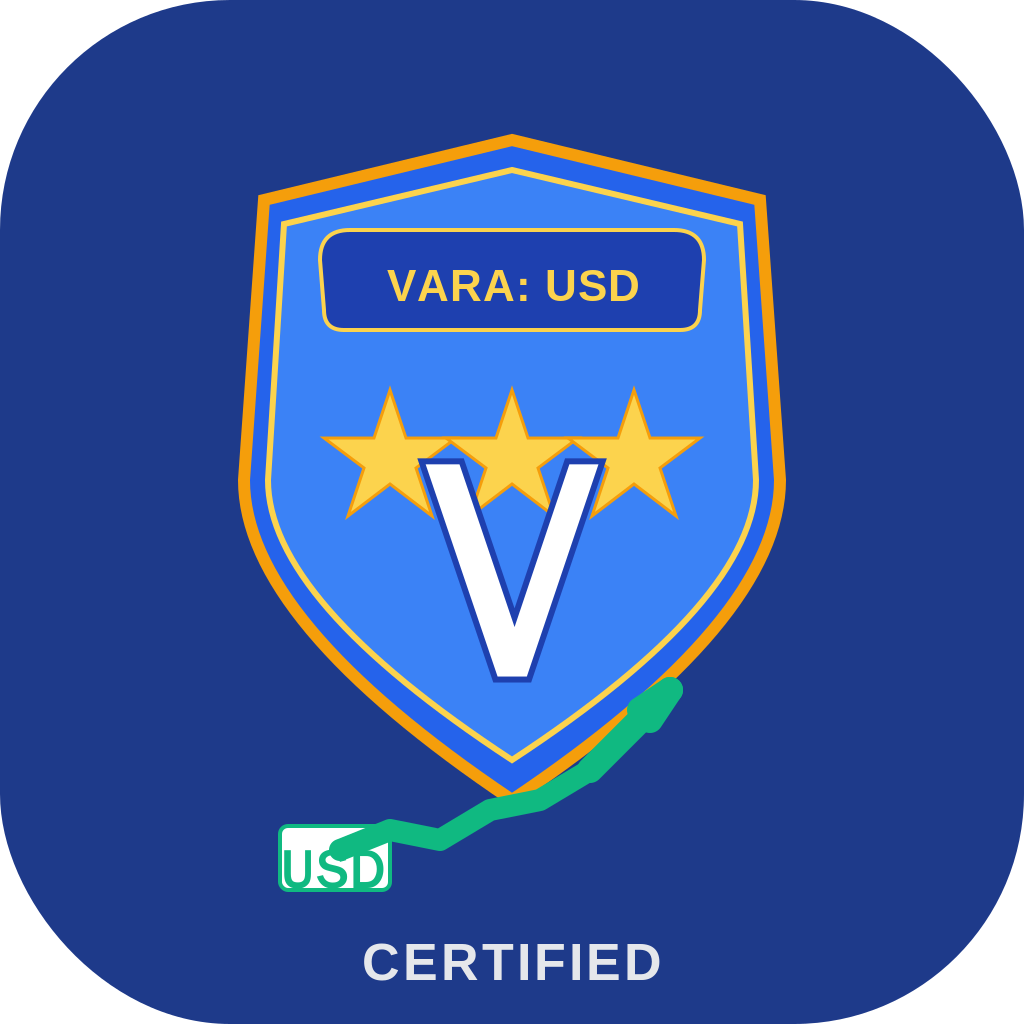
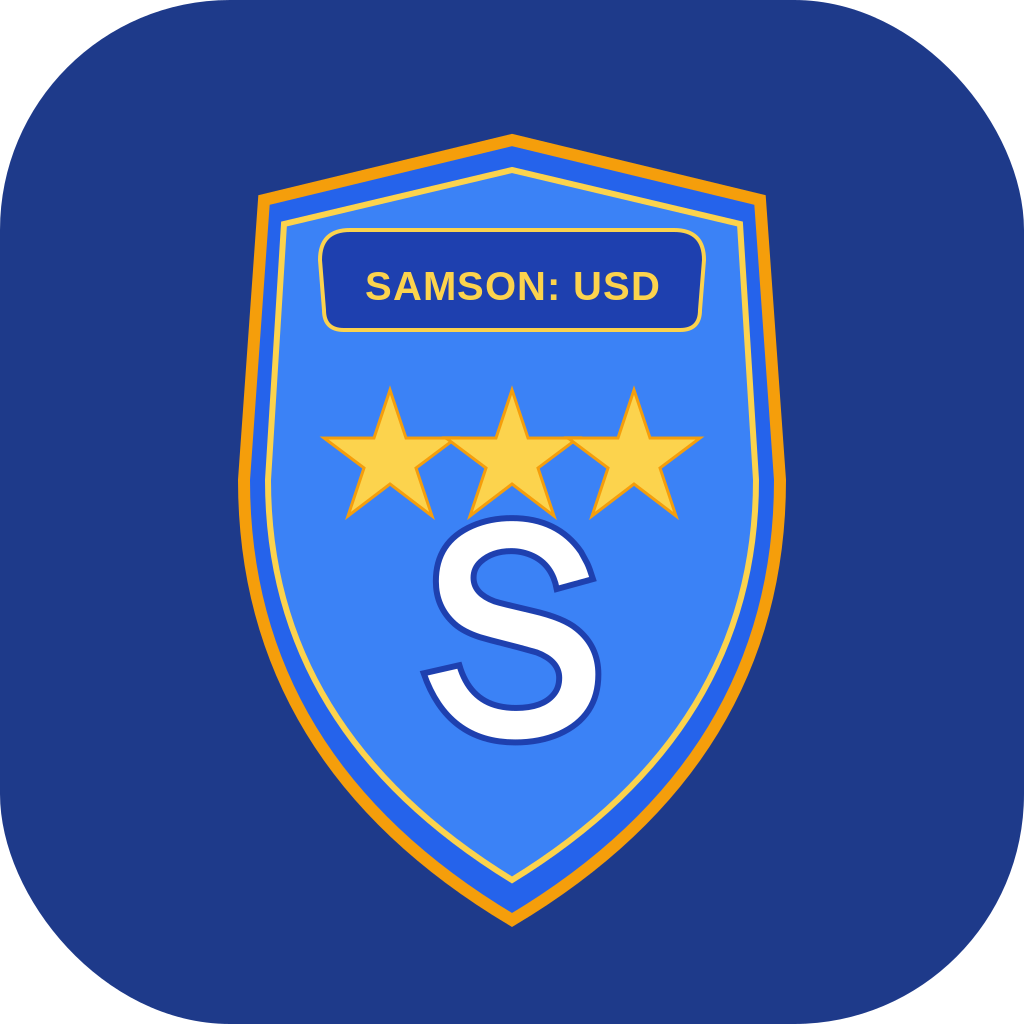
auto-commit for 0bc2019d-9b68-4681-bef8-8db709a9c8da

Changed region(s): [[0.2188, 0.4375, 0.7812, 0.9688], [0.3438, 0.25, 0.6562, 0.3125]]

diff --git a/mobile/screens/SignupScreen.js b/mobile/screens/SignupScreen.js
@@ -34,7 +34,7 @@ const SignupScreen = ({ navigation }) => {
         const r = await referralsAPI.validate(code);
         if (r?.valid) {
           setReferralStatus('valid');
-          setReferrerName(r.referrer_name || 'a VARA user');
+          setReferrerName(r.referrer_name || 'a SAMSON user');
         } else {
           setReferralStatus('invalid');
         }
@@ -72,7 +72,7 @@ const SignupScreen = ({ navigation }) => {
       <ScrollView contentContainerStyle={styles.scrollContent}>
         <View style={styles.content}>
           <View style={styles.header}>
-            <Text style={styles.logo}>VARA</Text>
+            <Text style={styles.logo}>SAMSON</Text>
             <View style={styles.bonusBadge}>
               <Text style={styles.bonusText}>$1 bonus at 5 tasks</Text>
             </View>

diff --git a/mobile/services/safeAuth.js b/mobile/services/safeAuth.js
@@ -25,7 +25,7 @@ export async function safeLogin(email, password) {
     });
   } catch (e) {
     throw new Error(
-      `Cannot reach VARA server. Check internet, then try again.\n(${(e && e.message) || 'network error'})`
+      `Cannot reach SAMSON server. Check internet, then try again.\n(${(e && e.message) || 'network error'})`
     );
   }
 
@@ -69,7 +69,7 @@ export async function safeRegister(email, password, name, referralCode) {
       body: JSON.stringify(payload),
     });
   } catch (e) {
-    throw new Error(`Cannot reach VARA server. (${(e && e.message) || 'network error'})`);
+    throw new Error(`Cannot reach SAMSON server. (${(e && e.message) || 'network error'})`);
   }
   const data = await safeJSON(response);
   if (!response.ok) {

diff --git a/mobile/screens/CalculatorScreen.js b/mobile/screens/CalculatorScreen.js
@@ -34,7 +34,7 @@ const CalculatorScreen = () => {
   return (
     <ScrollView style={styles.container} contentContainerStyle={styles.content}>
       <Text style={styles.title}>Earnings Calculator</Text>
-      <Text style={styles.subtitle}>See how much you can earn on VARA.</Text>
+      <Text style={styles.subtitle}>See how much you can earn on SAMSON.</Text>
 
       <View style={styles.card}>
         <View style={styles.sliderRow}>

diff --git a/mobile/screens/LoginScreen.js b/mobile/screens/LoginScreen.js
@@ -43,7 +43,7 @@ const LoginScreen = ({ navigation }) => {
       <ScrollView contentContainerStyle={styles.scrollContent}>
         <View style={styles.content}>
           <View style={styles.header}>
-            <Text style={styles.logo}>VARA</Text>
+            <Text style={styles.logo}>SAMSON</Text>
             <View style={styles.bonusBadge}>
               <Text style={styles.bonusText}>$1 Bonus</Text>
             </View>

diff --git a/mobile/screens/ReferralsScreen.js b/mobile/screens/ReferralsScreen.js
@@ -69,7 +69,7 @@ const ReferralsScreen = () => {
   const handleShare = async () => {
     try {
       await Share.share({
-        message: `Join me on VARA and earn USD from simple tasks! Use my code ${data?.referral_code}: ${shareLink}`,
+        message: `Join me on SAMSON and earn USD from simple tasks! Use my code ${data?.referral_code}: ${shareLink}`,
         url: shareLink,
       });
     } catch { /* cancelled */ }

diff --git a/mobile/services/notifications.js b/mobile/services/notifications.js
@@ -33,7 +33,7 @@ async function ensureAndroidChannel() {
   if (Platform.OS !== 'android') return;
   try {
     await Notifications.setNotificationChannelAsync('default', {
-      name: 'VARA',
+      name: 'SAMSON',
       importance: Notifications.AndroidImportance.HIGH,
       vibrationPattern: [0, 250, 250, 250],
       lightColor: '#1E3A8A',

diff --git a/mobile/App.js b/mobile/App.js
@@ -60,7 +60,7 @@ const AppNavigator = () => {
             name="Dashboard"
             component={DashboardScreen}
             options={{
-              title: 'VARA',
+              title: 'SAMSON',
               headerLeft: null,
             }}
           />
